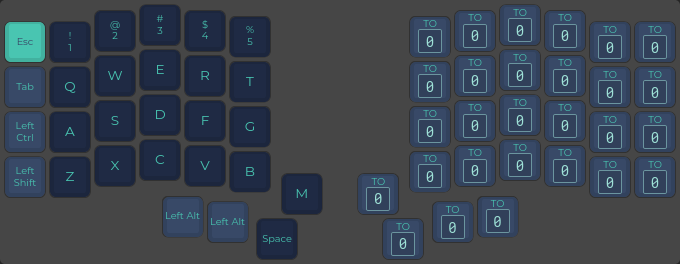
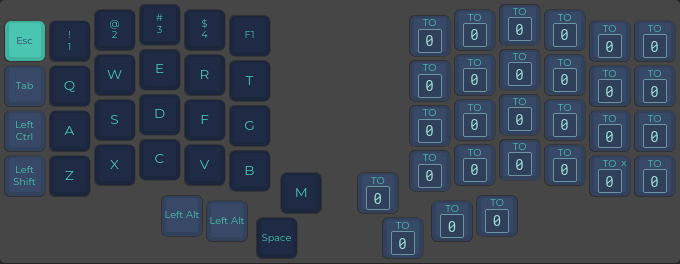
Disable ALT-Space and use F1 instead of NUM_5

diff --git a/keymap.c b/keymap.c
@@ -30,7 +30,8 @@ enum custom_keycodes {
   ALT_TAB,
   APEX_ESC,
   APEX_TAB,
-  APEX_LALT
+  APEX_LALT,
+  APEX_SPC
 };
 
 const uint16_t PROGMEM keymaps[][MATRIX_ROWS][MATRIX_COLS] = {
@@ -93,7 +94,7 @@ const uint16_t PROGMEM keymaps[][MATRIX_ROWS][MATRIX_COLS] = {
 
   [_APEX] = LAYOUT(
   //┌────────┬────────┬────────┬────────┬────────┬────────┐                          ┌────────┬────────┬────────┬────────┬────────┬────────┐
-TD(TD_APEX_ESC), KC_1, KC_2,    KC_3,    KC_4,    KC_5,                               QWERTY,  QWERTY,  QWERTY,  QWERTY,  QWERTY,  QWERTY,
+TD(TD_APEX_ESC), KC_1, KC_2,    KC_3,    KC_4,    KC_F1,                              QWERTY,  QWERTY,  QWERTY,  QWERTY,  QWERTY,  QWERTY,
   //├────────┼────────┼────────┼────────┼────────┼────────┤                          ├────────┼────────┼────────┼────────┼────────┼────────┤
    APEX_TAB,  KC_Q,    KC_W,    KC_E,    KC_R,    KC_T,                               QWERTY,  QWERTY,  QWERTY,  QWERTY,  QWERTY,  QWERTY,
   //├────────┼────────┼────────┼────────┼────────┼────────┤                          ├────────┼────────┼────────┼────────┼────────┼────────┤
@@ -101,7 +102,7 @@ TD(TD_APEX_ESC), KC_1, KC_2,    KC_3,    KC_4,    KC_5,                         
   //├────────┼────────┼────────┼────────┼────────┼────────┼────────┐        ┌────────┼────────┼────────┼────────┼────────┼────────┼────────┤
      KC_LSFT, KC_Z,    KC_X,    KC_C,    KC_V,    KC_B,    KC_M,             QWERTY,  QWERTY,  QWERTY,  QWERTY,  QWERTY,  QWERTY,  QWERTY,
   //└────────┴────────┴────────┴───┬────┴───┬────┴───┬────┴───┬────┘        └───┬────┴───┬────┴───┬────┴───┬────┴────────┴────────┴────────┘
-                                  APEX_LALT, APEX_LALT, KC_SPC,                    QWERTY,  QWERTY,  QWERTY
+                                  APEX_LALT, APEX_LALT, APEX_SPC,                 QWERTY,  QWERTY,  QWERTY
                                 // └────────┴────────┴────────┘                 └────────┴────────┴────────┘
   )
 };
@@ -219,6 +220,15 @@ bool process_record_user(uint16_t keycode, keyrecord_t *record) {
          }
       } else {
          unregister_code(KC_TAB);
+      }
+      break;
+   case APEX_SPC:
+      if (record->event.pressed) {
+         if (!is_apex_lalt_active) {
+            register_code(KC_SPC);
+         }
+      } else {
+         unregister_code(KC_SPC);
       }
       break;
   }

diff --git a/README.md b/README.md
@@ -27,7 +27,7 @@ lrwxrwxrwx    38 jumski  9 gru  2022  rules.mk -> /home/jumski/Code/iris-keymap/
 ## Goodies
 
 - [Caps Word](https://docs.qmk.fm/#/feature_caps_word?id=caps-word) - enabled by tapping both shifts at the same time
-- APEX layer has alt-tab disabled
+- APEX layer has alt-tab and alt-space disabled (via custom APEX_ prefixed keycodes)
 - APEX layer has tap dance on ESC - one tap does nothing to prevent accidents, need to double tap
 
 ## QWERTY
